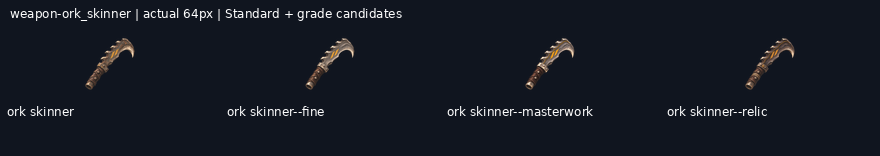
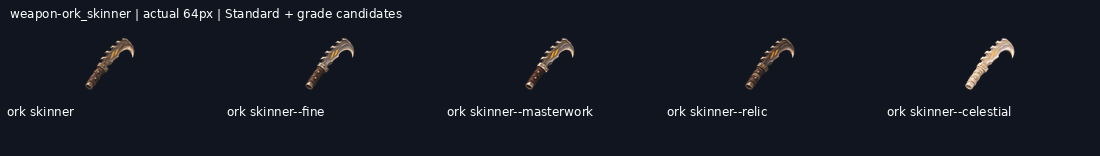
Deliver weapon-ork_skinner--celestial review candidate

diff --git a/art/_archive/gear/2026-11-20-reset-continuation/HANDOFF.md b/art/_archive/gear/2026-11-20-reset-continuation/HANDOFF.md
@@ -1,13 +1,13 @@
 # Reset continuation progress
 
-Branch: `art/2026-11-20-reset-continuation`. New deliveries: 77/106.
+Branch: `art/2026-11-20-reset-continuation`. New deliveries: 78/106.
 
 Shared coordination: https://github.com/leonpentastorm/Project-Heaven-Cry/issues/3 . Read START-HERE.md before extending this queue.
 
 All new entries remain review-candidate; production_approved:false and implementation_ready:false. Exact-outline review remains pending.
 
-Ready jobs: weapon-ork_skinner--celestial, weapon-ork_cleaver_glaive--fine, weapon-weighted_gloves--fine.
+Ready jobs: weapon-ork_cleaver_glaive--fine, weapon-weighted_gloves--fine.
 
-Pending jobs: weapon-hellraiser_rotary--celestial, weapon-purifier_flamer--masterwork, weapon-purifier_flamer--relic, weapon-purifier_flamer--celestial, weapon-dock_cutter--masterwork, weapon-dock_cutter--relic, weapon-dock_cutter--celestial, weapon-broadback_sabre--relic, weapon-broadback_sabre--celestial, weapon-short_draw--fine, weapon-short_draw--masterwork, weapon-short_draw--relic, weapon-short_draw--celestial, weapon-long_draw--fine, weapon-long_draw--masterwork, weapon-long_draw--relic, weapon-long_draw--celestial, weapon-kemizuchi_side_sword--masterwork, weapon-kemizuchi_side_sword--relic, weapon-kemizuchi_side_sword--celestial, weapon-ork_skinner--celestial, weapon-ork_cleaver_glaive--fine, weapon-ork_cleaver_glaive--masterwork, weapon-ork_cleaver_glaive--relic, weapon-ork_cleaver_glaive--celestial, weapon-weighted_gloves--fine, weapon-weighted_gloves--masterwork, weapon-weighted_gloves--relic, weapon-weighted_gloves--celestial.
+Pending jobs: weapon-hellraiser_rotary--celestial, weapon-purifier_flamer--masterwork, weapon-purifier_flamer--relic, weapon-purifier_flamer--celestial, weapon-dock_cutter--masterwork, weapon-dock_cutter--relic, weapon-dock_cutter--celestial, weapon-broadback_sabre--relic, weapon-broadback_sabre--celestial, weapon-short_draw--fine, weapon-short_draw--masterwork, weapon-short_draw--relic, weapon-short_draw--celestial, weapon-long_draw--fine, weapon-long_draw--masterwork, weapon-long_draw--relic, weapon-long_draw--celestial, weapon-kemizuchi_side_sword--masterwork, weapon-kemizuchi_side_sword--relic, weapon-kemizuchi_side_sword--celestial, weapon-ork_cleaver_glaive--fine, weapon-ork_cleaver_glaive--masterwork, weapon-ork_cleaver_glaive--relic, weapon-ork_cleaver_glaive--celestial, weapon-weighted_gloves--fine, weapon-weighted_gloves--masterwork, weapon-weighted_gloves--relic, weapon-weighted_gloves--celestial.
 
 Quota state: null.
